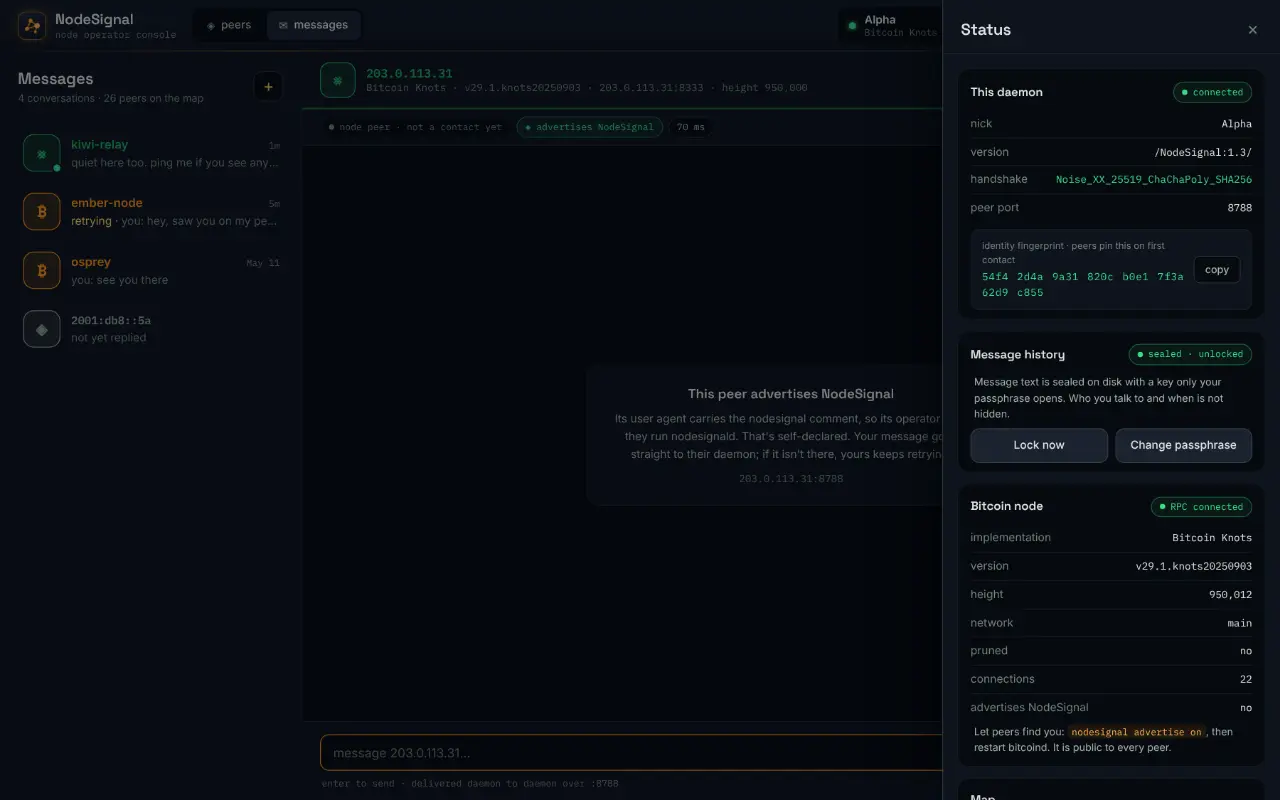
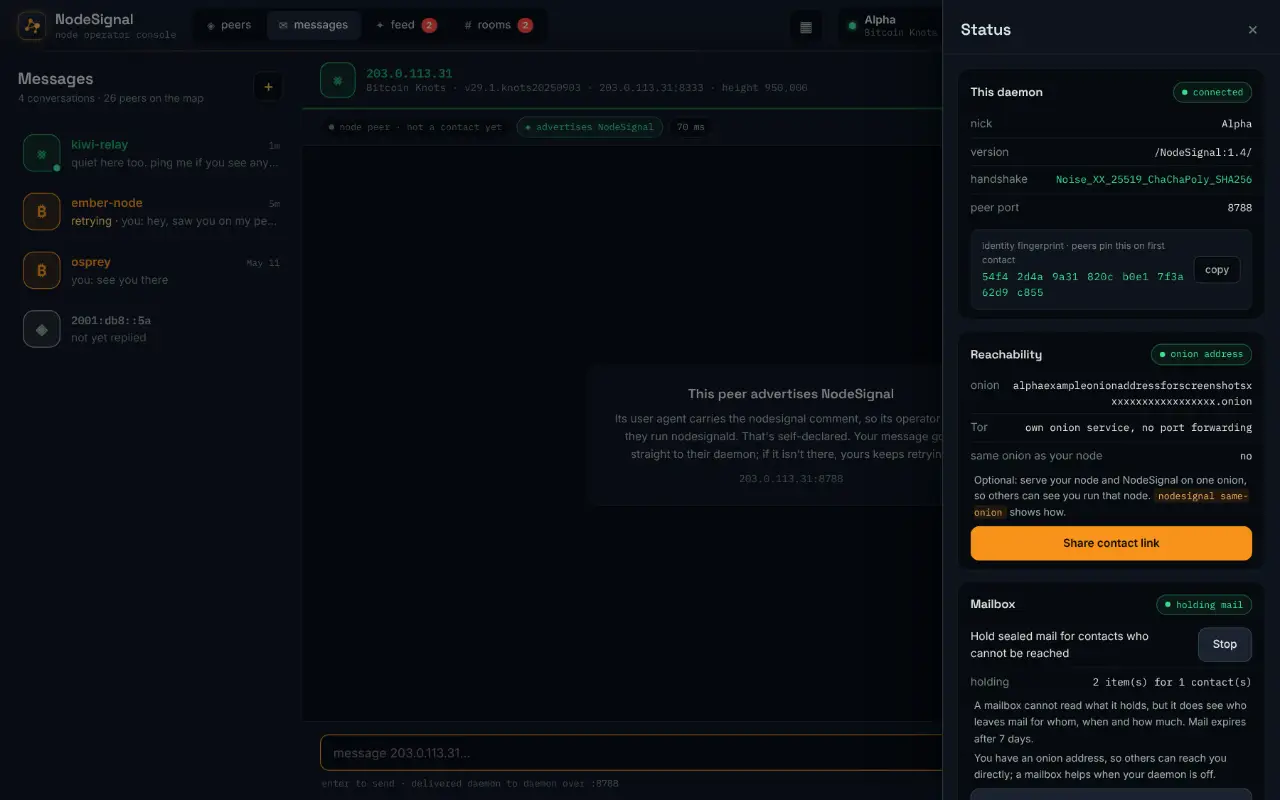
Screenshots for 1.4: feed, room, contact link with QR; no made-up update
shoot.js gains three scenes for the website set: the feed, a room, and the
share card, whose QR code is drawn by NodeSignal's own qr.js from the
fixture's made-up link. The status panel now shows the 1.4 cards
(reachability with the onion address, the mailbox). All images were
re-rendered with the console's embedded fonts; the set is 11 WebP files,
about 299 KB (encoder quality 0.7 to stay under the 300 KB budget).

The fixture used to offer a made-up 1.4.1 update in every scene, so the
header of every website image said "update 1.4.1" for a release that does
not exist. It is now offered only in ?mode=update (and the hostile scene,
which needs the release notes); other scenes show 1.4.0 as current.

Claude-Session: https://claude.ai/code/session_01QrKMwecwqYr4tkj9QjGoDV

Changed region(s): [[0.75, 0.4375, 1.0, 1.0], [0.3125, 0.0, 0.3438, 0.0625]]

diff --git a/tools/screenshots/shoot.js b/tools/screenshots/shoot.js
@@ -30,6 +30,11 @@ const SEED = Number(process.env.SEED || 3);
 // Sample time shown in the images (fixture timestamps are relative to it).
 const CLOCK_AT = Date.parse(process.env.CLOCK || '2026-05-12T14:20:00Z');
 const FIXTURE = fs.readFileSync(path.join(__dirname, 'fixture-ws.js'), 'utf8');
+// The share card's QR code, drawn by NodeSignal's own encoder from the
+// fixture's made-up contact link (the same text fixture-ws.js sends).
+const qr = require(path.join(ROOT, 'qr.js'));
+const SHARE_LINK = 'nodesignal:alphaexampleonionaddressforscreenshotsxxxxxxxxxxxxxxxxxx.onion?port=8788&fp=54f42d4a9a31820cb0e17f3a62d9c855&nick=Alpha';
+const QR_SVG = `window.__QR_SVG=${JSON.stringify(qr.toSvg(qr.encode(SHARE_LINK)))};`;
 const SEEDED = `(()=>{let x=${SEED};Math.random=()=>{x=(x*1103515245+12345)%2147483648;return x/2147483648;};})();`;
 // A Date that keeps ticking from CLOCK_AT, so animations and timers still run.
 const CLOCK = `(()=>{const R=Date,off=${CLOCK_AT}-R.now();class D extends R{constructor(...a){if(a.length)super(...a);else super(R.now()+off);}static now(){return R.now()+off;}}window.Date=D;})();`;
@@ -44,9 +49,12 @@ const WEB_SET = [
   ['desktop-chat-retrying', 1280],
   ['desktop-history-locked', 1280],
   ['desktop-status', 1280],
+  ['desktop-feed', 1280],
+  ['desktop-room', 1280],
+  ['desktop-share', 1280],
   ['phone-chat', 540],
 ];
-const WEBP_Q = Number(process.env.WEBP_Q || 0.75);
+const WEBP_Q = Number(process.env.WEBP_Q || 0.7);
 
 fs.mkdirSync(OUT, { recursive: true });
 
@@ -59,7 +67,7 @@ srv.listen(0, '127.0.0.1', async () => {
   const b = await chromium.launch();
   const open = async (w, h, mode = 'ok', scale = 1.25, calm = true) => {
     const pg = await b.newPage({ viewport: { width: w, height: h }, deviceScaleFactor: scale, timezoneId: 'UTC', locale: 'en-US' });
-    await pg.addInitScript(CLOCK); await pg.addInitScript(SEEDED); await pg.addInitScript(FIXTURE);
+    await pg.addInitScript(CLOCK); await pg.addInitScript(SEEDED); await pg.addInitScript(QR_SVG); await pg.addInitScript(FIXTURE);
     await pg.goto(base + '?mode=' + mode + (calm ? '&calm=1' : '')); await pg.waitForTimeout(1200); return pg;
   };
   const shot = (pg, name) => pg.screenshot({ path: path.join(OUT, name + '.png') }).then(() => console.log('  ' + name));
@@ -78,6 +86,12 @@ srv.listen(0, '127.0.0.1', async () => {
   await pg.evaluate(() => openChat(state.peers.find((p) => p.ns).id)); await pg.waitForTimeout(300); await shot(pg, 'desktop-advertised-peer');
   await pg.evaluate(() => toggleDrawer(true)); await pg.waitForTimeout(400); await shot(pg, 'desktop-status');
   await pg.evaluate(() => { toggleDrawer(false); switchTab('peers'); openAdd(); }); await pg.waitForTimeout(300); await shot(pg, 'desktop-add-contact');
+  await pg.close();
+  // 1.4: the feed, a room, and the share card with its QR code
+  pg = await open(1440, 900);
+  await pg.evaluate(() => switchTab('feed')); await pg.waitForTimeout(300); await shot(pg, 'desktop-feed');
+  await pg.evaluate(() => { switchTab('rooms'); openRoom(state.rooms[0].room); }); await pg.waitForTimeout(300); await shot(pg, 'desktop-room');
+  await pg.evaluate(() => { switchTab('peers'); openShare(); }); await pg.waitForTimeout(400); await shot(pg, 'desktop-share');
   await pg.close();
   pg = await open(1440, 900, 'ok', 1.25, false);
   await chat(pg, '203.0.113.88'); await pg.waitForTimeout(300); await shot(pg, 'desktop-key-change-review'); await pg.close();

diff --git a/tools/screenshots/fixture-ws.js b/tools/screenshots/fixture-ws.js
@@ -3,7 +3,7 @@
 // scene with ?mode= : ok (default) | locked (history passphrase not yet typed)
 // | norpc | slow (connecting) | down (never
 // connects) | drop (connects, then loses the daemon; set window.__allow=true
-// to let it reconnect) | hostile (every string a peer, a node or a release
+// to let it reconnect) | update (a made-up newer release is on offer) | hostile (every string a peer, a node or a release
 // note could choose ends in quotes and markup that would count a hit in
 // window.__xss if it ever ran; tests/console-hostile.e2e.js uses it). Add &calm=1 to leave out osprey's pending key change
 // (and so the red security banner) in scenes that are about something else.
@@ -63,7 +63,10 @@ let STATE=()=>({type:'state',daemon:{nick:'Alpha',ua:'/NodeSignal:1.4/',peerPort
     share:'nodesignal:'+ONION+'?port=8788&fp=54f42d4a9a31820cb0e17f3a62d9c855&nick=Alpha',
     signKey:ME_SK,signId:'7f5f561b8faca2a7',discoverable:true,mailbox:true,mailboxStats:{recipients:1,items:2,bytes:9000},
     myMailboxes:[],sameOnion:false,nodeOnions:[],
-    update:{state:'available',current:'1.4.0',version:'1.4.1',verified:true,installable:true,checkedAt:m(60),
+    // a made-up newer release, only in ?mode=update (and hostile, for its
+    // release notes): other scenes must not
+    // suggest that a release exists that does not
+    update:MODE!=='update'&&MODE!=='hostile'?{state:'current',current:'1.4.0',checkedAt:m(60)}:{state:'available',current:'1.4.0',version:'1.4.1',verified:true,installable:true,checkedAt:m(60),
       notes:'Fixes from operators running 1.4.0.\n- Rooms keep their order after a restart.\n- Clearer mailbox status in the console.'}},
   node:MODE==='norpc'?{self:null,peers:[],error:'connect ECONNREFUSED 127.0.0.1:8332'}:{self,peers},
   contacts:MODE==='norpc'?[]:[kiwi,ember,quiet,osprey],
